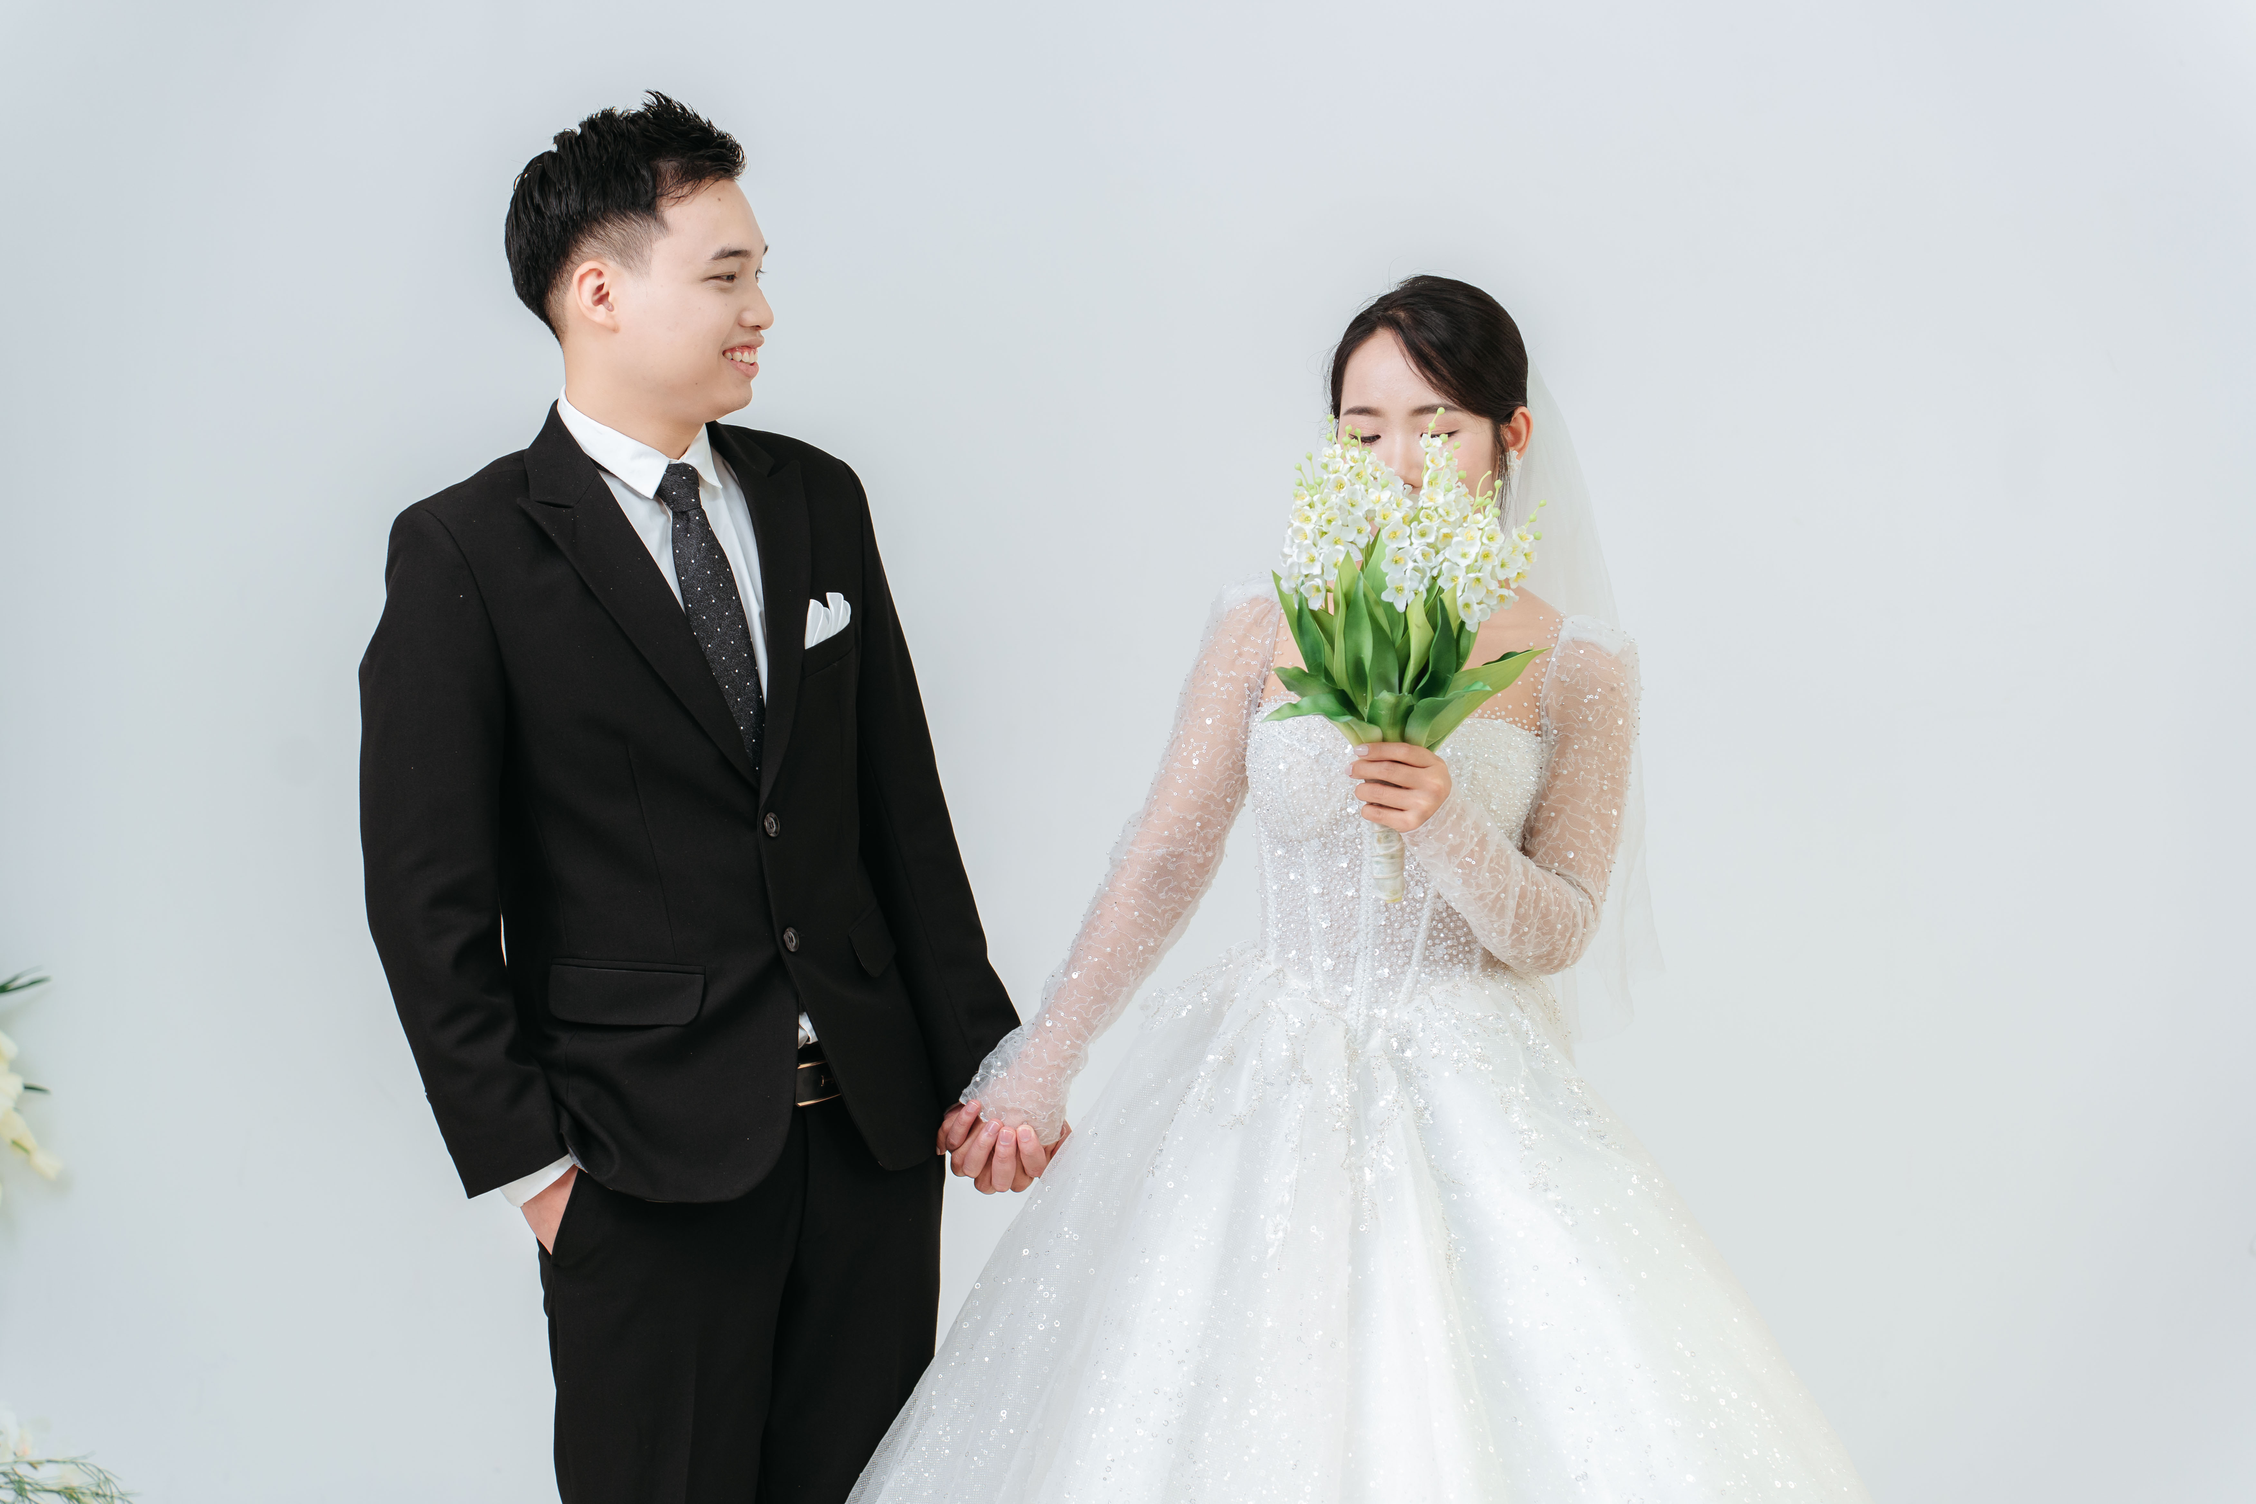
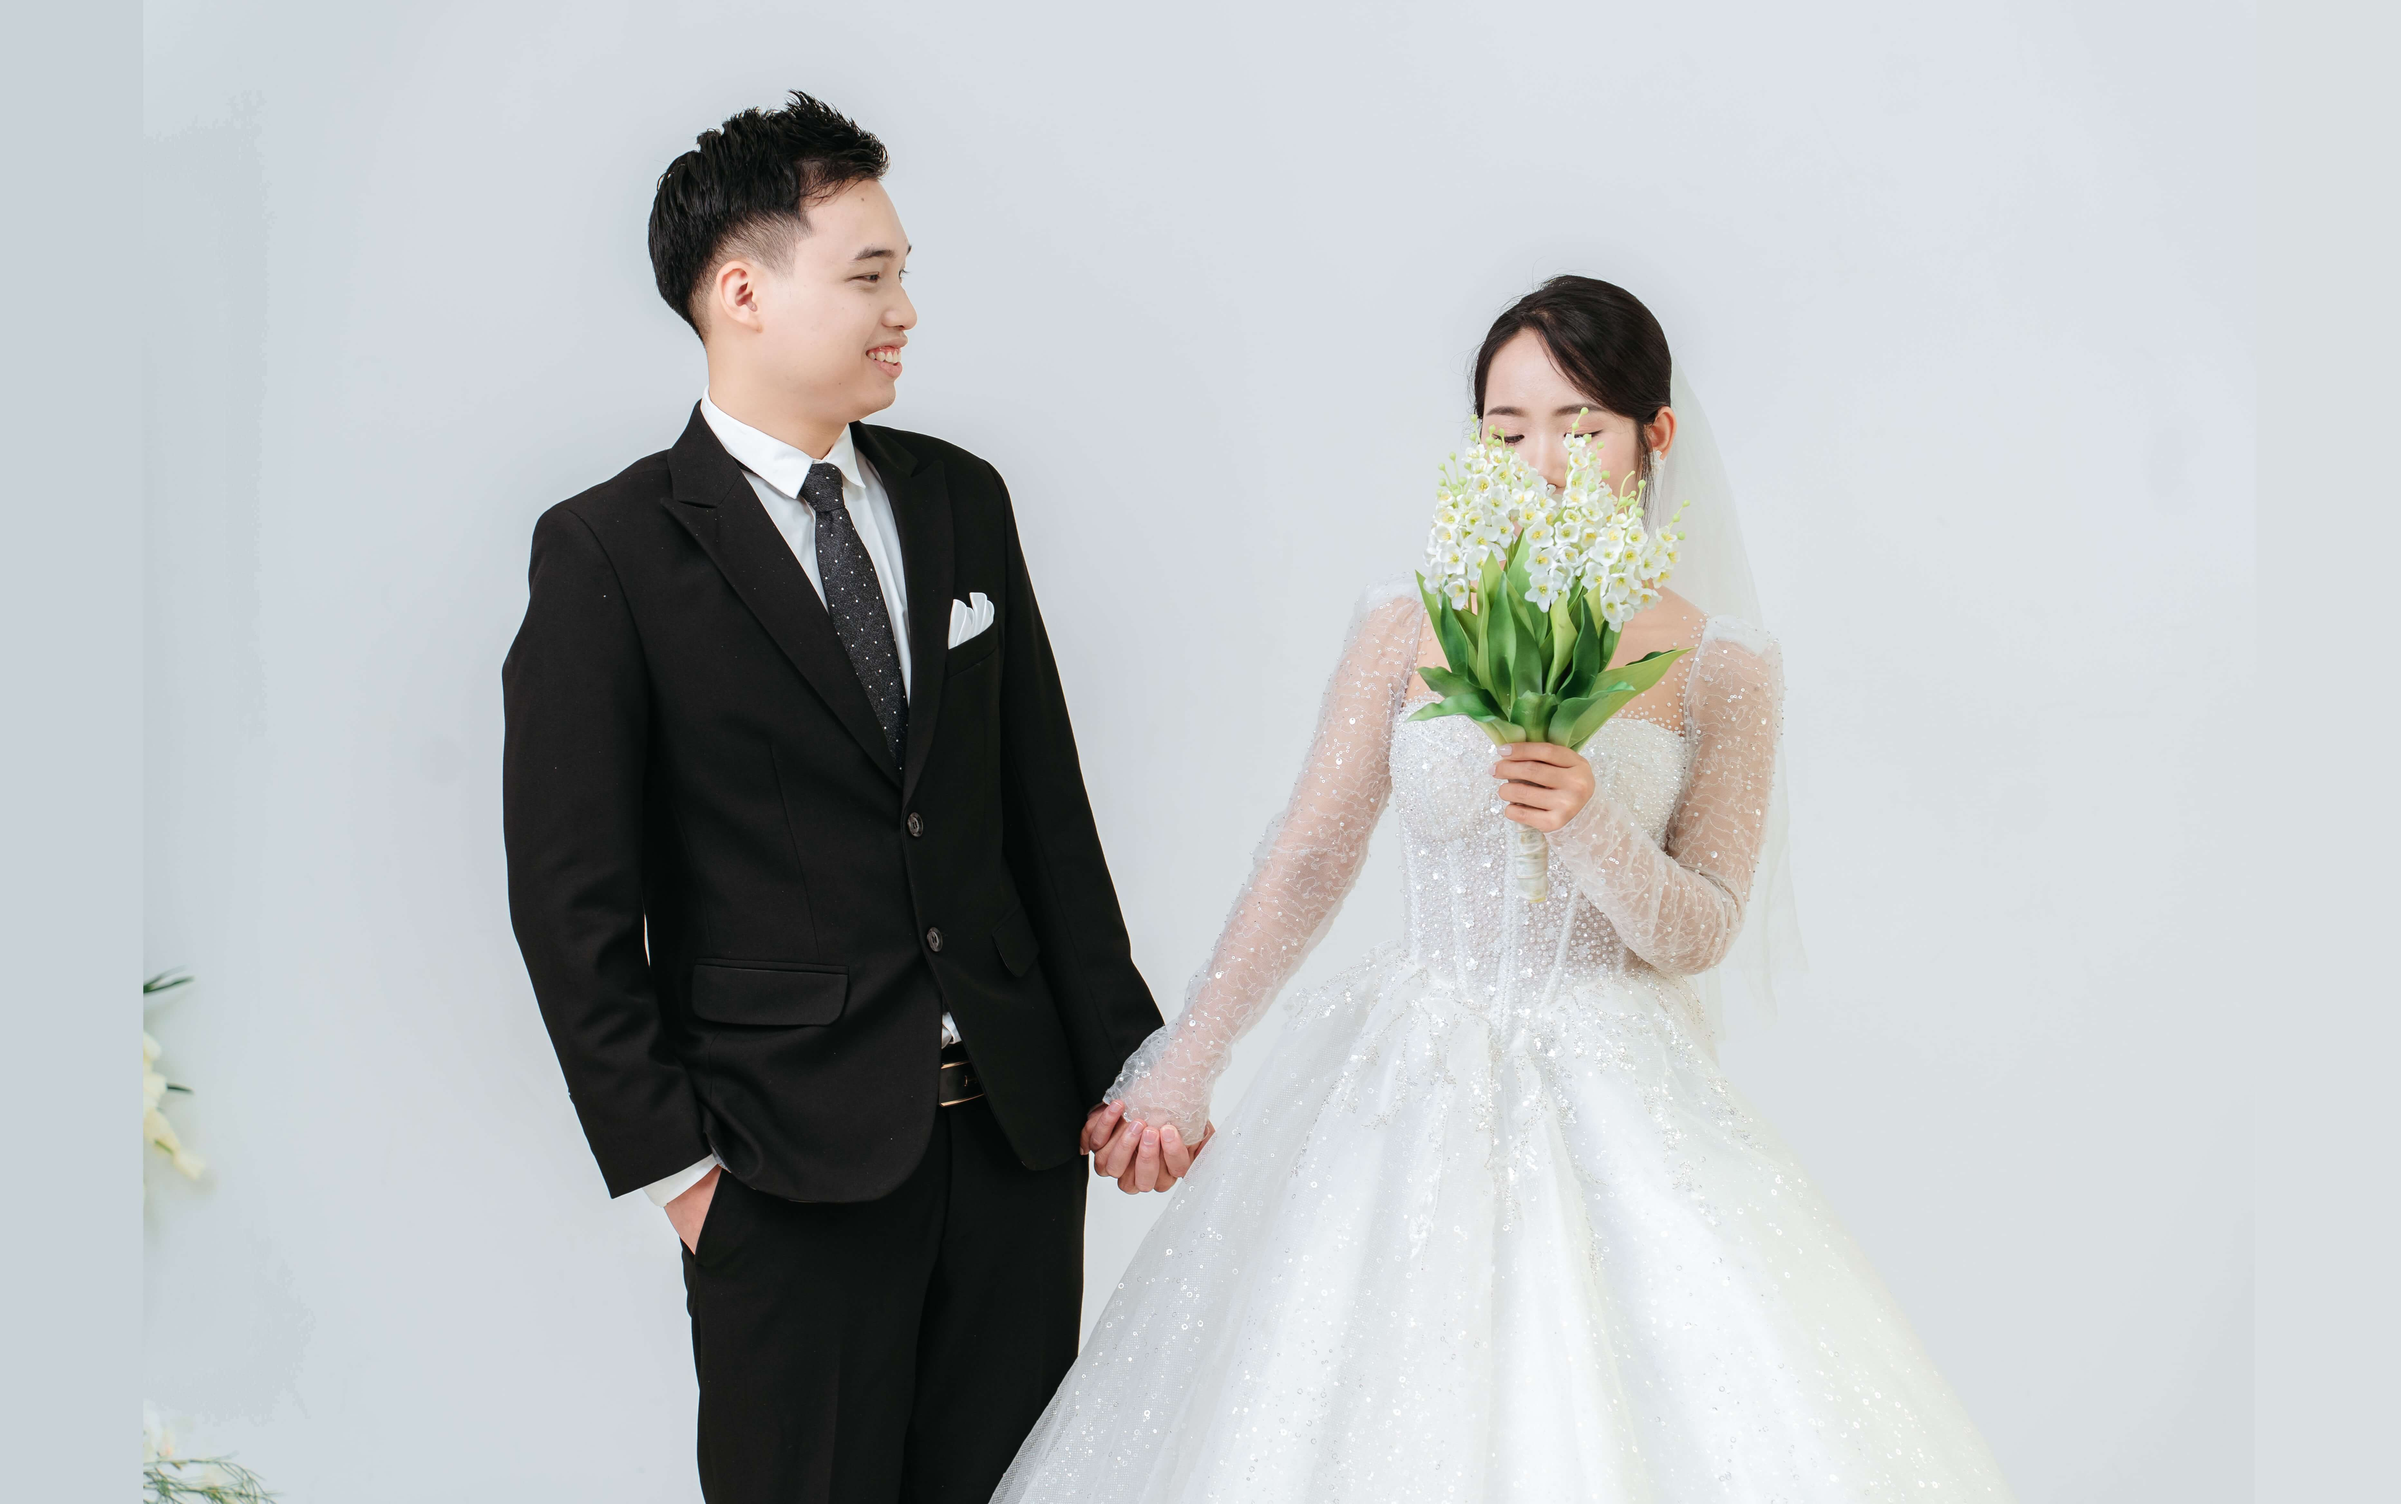
resize image

diff --git a/index.html b/index.html
@@ -36,11 +36,11 @@
     <nav
       class="navbar fixed-top shadow-sm navbar-expand-lg bg-dark navbar-dark py-3 py-lg-0 px-lg-5"
     >
-      <a href="index.html" class="navbar-brand d-block d-lg-none">
+      <!-- <a href="index.html" class="navbar-brand d-block d-lg-none">
         <h1 class="font-secondary display-1 text-primary">
           Đức Tiến <span class="text-primary">-</span> Mai Gấm
         </h1>
-      </a>
+      </a> -->
       <button
         type="button"
         class="navbar-toggler"
@@ -48,7 +48,6 @@
         data-target="#navbarCollapse"
       >
         <i class="fa fa-bars" aria-hidden="true"></i>
-        <!-- <span class="navbar-toggler-icon"></span> -->
       </button>
       <div
         class="collapse navbar-collapse justify-content-between"
@@ -111,8 +110,8 @@
               class="carousel-caption d-flex flex-column align-items-center justify-content-center"
             >
               <div class="p-3" style="max-width: 900px">
-                <h1 class="display-1 font-secondary text-white mt-n3 mb-md-4">
-                  Đức Tiến - Gấm Mai
+                <h1 class="display-1 font-secondary text-white mt-n3 mb-md-4 heading-h1">
+                  Đức Tiến - Mai Gấm
                 </h1>
                 <div
                   class="d-inline-block border-top border-bottom border-light py-3 px-4"
@@ -140,8 +139,8 @@
               class="carousel-caption d-flex flex-column align-items-center justify-content-center"
             >
               <div class="p-3" style="max-width: 900px">
-                <h1 class="display-1 font-secondary text-white mt-n3 mb-md-4">
-                  Đức Tiến - Gấm Mai
+                <h1 class="display-1 font-secondary text-white mt-n3 mb-md-4 heading-h1">
+                  Đức Tiến - Mai Gấm
                 </h1>
                 <div
                   class="d-inline-block border-top border-bottom border-light py-3 px-4"
@@ -498,7 +497,14 @@
         <div class="row">
           <div class="col-md-6 border-right border-primary">
             <div class="text-center text-md-right mr-md-3 mb-4 mb-md-0">
-              <img class="img-fluid mb-4" src="img/event-1.JPG" alt="" />
+              <iframe src="https://www.google.com/maps/embed?pb=!1m17!1m12!1m3!1d3747.749874090718!2d105.80281447523062!3d20.060916881357194!2m3!1f0!2f0!3f0!3m2!1i1024!2i768!4f13.1!3m2!1m1!2zMjDCsDAzJzM5LjMiTiAxMDXCsDQ4JzE5LjQiRQ!5e0!3m2!1svi!2s!4v1741614115622!5m2!1svi!2s" 
+              width="600" 
+              height="450" 
+              style="border:0;" 
+              allowfullscreen="" 
+              loading="lazy" 
+              class="map"
+              referrerpolicy="no-referrer-when-downgrade"></iframe>
               <h4 class="mb-3">Lễ nạp tài</h4>
               <p class="mb-2">
                 Quan Chiêm <br />Hà Giang - Hà Trung - Thanh Hóa
@@ -508,7 +514,14 @@
           </div>
           <div class="col-md-6">
             <div class="text-center text-md-left ml-md-3">
-              <img class="img-fluid mb-4" src="img/event-2.JPG" alt="" />
+              <!-- <img class="img-fluid mb-4" src="img/event-2.JPG" alt="" /> -->
+              <iframe
+               src="https://www.google.com/maps/embed?pb=!1m18!1m12!1m3!1d3723.4263459296535!2d106.60271047605318!3d21.055627380600335!2m3!1f0!2f0!3f0!3m2!1i1024!2i768!4f13.1!3m3!1m2!1s0x314a80ebfd1b1acd%3A0x7d818161a8181943!2zTmjDoCBow6BuZyBI4bqhbmggSMawbmc!5e0!3m2!1svi!2s!4v1741611469247!5m2!1svi!2s" 
+               style="border:0;" 
+               allowfullscreen="" 
+               loading="lazy"
+               class = "map" 
+               referrerpolicy="no-referrer-when-downgrade"></iframe>
               <h4 class="mb-3">Tiệc cưới</h4>
               <p class="mb-2">
                 Nhà hàng Hạnh Hưng <br />
@@ -565,7 +578,7 @@
                   ></textarea>
                 </div>
               </form>
-              <div>
+              <div class="button-group">
                 <button
                   id="sendWish"
                   class="btn btn-primary font-weight-bold py-3 px-5"
@@ -586,8 +599,8 @@
         <!-- pop up mừng cưới -->
         <div id="popup" class="popup" onclick="closePopup()">
           <div class="popup-content" onclick="event.stopPropagation();">
-            <span class="popup-close" onclick="closePopup()">&times;</span>
-            <h4 class="mb-4 text-primary">Chuyển khoản mừng cưới 💖</h4>
+            <!-- <span class="popup-close" onclick="closePopup()">&times;</span> -->
+            <h4 class="mb-4 text-primary">Chúc mừng 2 bạn 💖</h4>
             <div class="row">
               <div class="col-6">
                 <img class="mb-3 mungcuoi" src="img/qr-1.jpg" alt="QR 1" />
@@ -611,10 +624,10 @@
         <!-- Popup cảm ơn -->
         <div id="thankYouPopup" class="popup-overlay-thank">
           <div class="popup-content">
-            <span class="close-popup-thank">&times;</span>
-            <h4 class="text-primary">Cảm ơn bạn!</h4>
+            <!-- <span class="close-popup-thank">&times;</span> -->
+            <h4 class="text-primary">Lời cảm ơn!</h4>
             <p>
-              Lời chúc của bạn đã được gửi thành công. Chúng tôi rất trân trọng!
+              Vợ chòng em xin cảm ơn lời chúc từ bạn. Chúc cho tất cả nhiều sức khoẻ và bình an.
             </p>
           </div>
         </div>

diff --git a/css/style.css b/css/style.css
@@ -10174,7 +10174,7 @@ a.text-dark:focus {
 /* popup 
  */
 
- .popup {
+.popup {
   display: none; /* Ẩn popup ban đầu */
   position: fixed;
   top: 0;
@@ -10211,12 +10211,11 @@ a.text-dark:focus {
 .popup-close:hover {
   color: darkred;
 }
-.mungcuoi{
+.mungcuoi {
   max-width: 50%; /* Giữ ảnh vừa với cột */
   height: auto; /* Tự động điều chỉnh chiều cao để không méo ảnh */
   aspect-ratio: 1 / 1; /* Giữ tỷ lệ vuông */
 }
-
 
 /* CSS cho popup */
 .popup-overlay-thank {
@@ -10249,11 +10248,35 @@ a.text-dark:focus {
   color: #b58d2e;
 }
 
+.button-group {
+  display: flex;
+  flex-direction: row;
+  justify-content: center;
+  align-items: center;
+  gap: 15px; /* Khoảng cách giữa các button */
+}
+
+.map{
+  width: 500px;
+  height: 300px;
+}
+
 @media (max-width: 767.98px) {
   #event .border-right {
     border-right: none !important;
   }
   .popup-content {
     width: 80%;
-}
+  }
+  .button-group {
+    display: flex; 
+    flex-direction: column;
+  }
+  .map{
+    width: 300px; 
+    height: 200px;
+  }
+  .heading-h1{
+    font-size: 45px !important
+  }
 }
